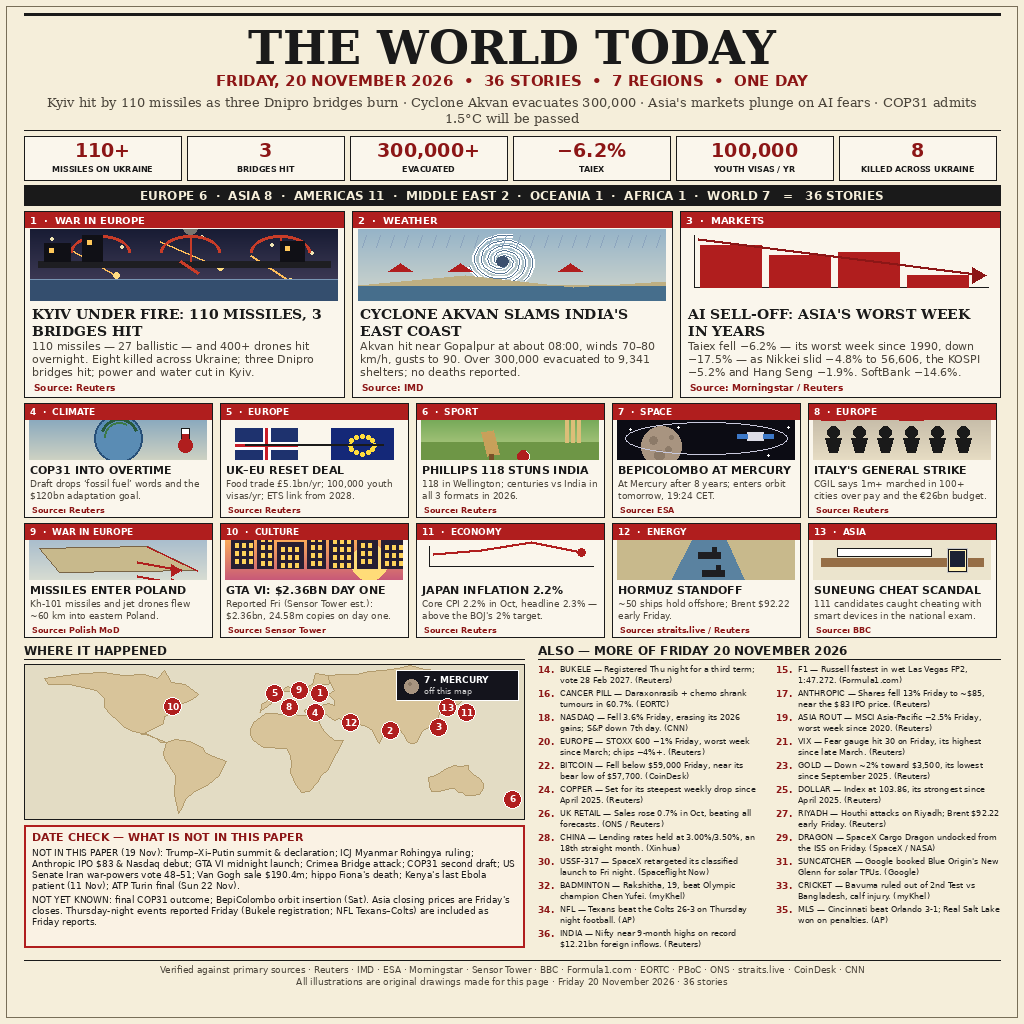
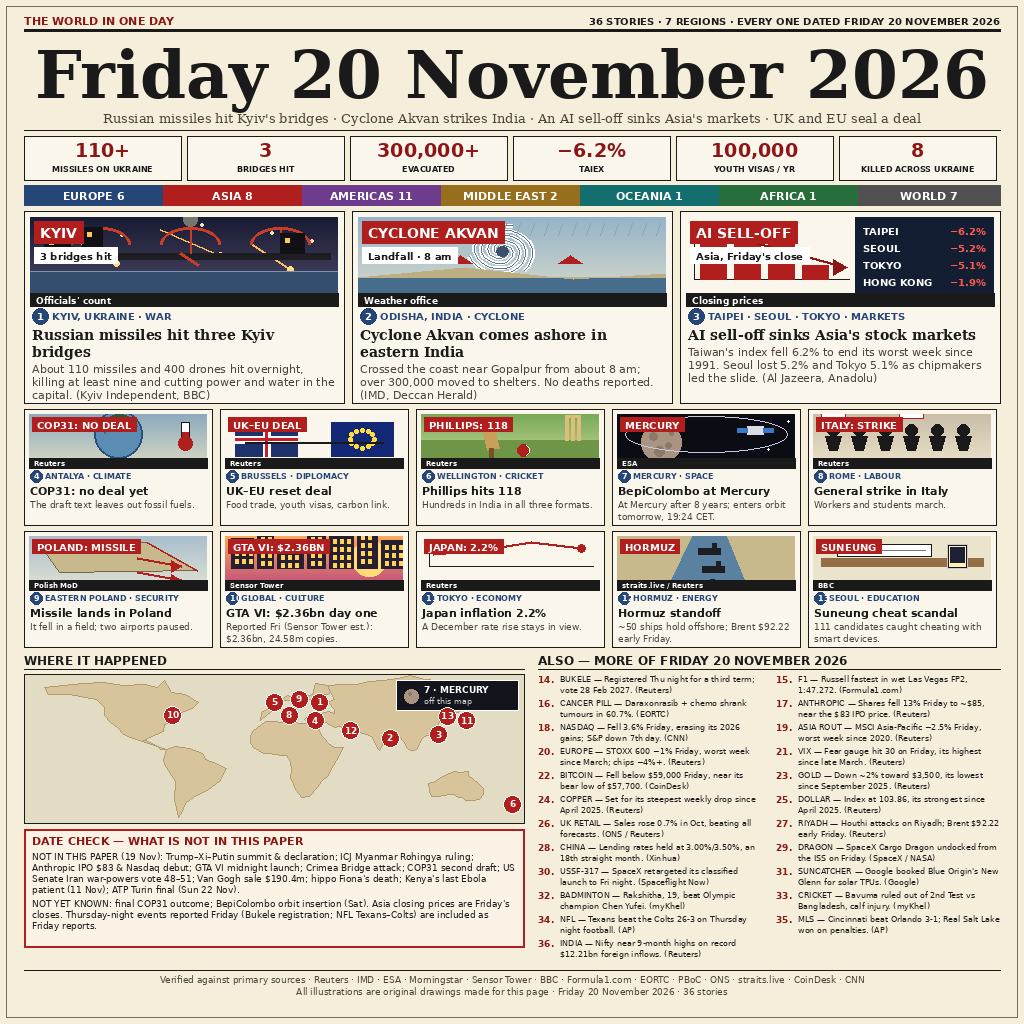
v3: top-10 design — giant date masthead, coloured region bar, overlay labels, markets data table

diff --git a/build_image.py b/build_image.py
@@ -71,26 +71,32 @@ def wrap_n(text, font, width, max_lines):
 HEROES = [
     {
         "n": 1, "cat": "WAR IN EUROPE", "art": "kyiv",
-        "head": "KYIV UNDER FIRE: 110 MISSILES, 3 BRIDGES HIT",
-        "body": ("110 missiles \u2014 27 ballistic \u2014 and 400+ drones hit "
-                 "overnight. Eight killed across Ukraine; three Dnipro "
-                 "bridges hit; power and water cut in Kyiv."),
+        "label": "KYIV", "sublabel": "3 bridges hit",
+        "attr": "Officials' count", "loc": "KYIV, UKRAINE \u00b7 WAR",
+        "head": "Russian missiles hit three Kyiv bridges",
+        "body": ("About 110 missiles and 400 drones hit overnight, killing "
+                 "at least nine and cutting power and water in the capital. "
+                 "(Kyiv Independent, BBC)"),
         "src": "Reuters",
     },
     {
         "n": 2, "cat": "WEATHER", "art": "cyclone",
-        "head": "CYCLONE AKVAN SLAMS INDIA'S EAST COAST",
-        "body": ("Akvan hit near Gopalpur at about 08:00, winds 70\u201380 "
-                 "km/h, gusts to 90. Over 300,000 evacuated to 9,341 "
-                 "shelters; no deaths reported."),
+        "label": "CYCLONE AKVAN", "sublabel": "Landfall \u00b7 8 am",
+        "attr": "Weather office", "loc": "ODISHA, INDIA \u00b7 CYCLONE",
+        "head": "Cyclone Akvan comes ashore in eastern India",
+        "body": ("Crossed the coast near Gopalpur from about 8 am; over "
+                 "300,000 moved to shelters. No deaths reported. "
+                 "(IMD, Deccan Herald)"),
         "src": "IMD",
     },
     {
         "n": 3, "cat": "MARKETS", "art": "selloff",
-        "head": "AI SELL-OFF: ASIA'S WORST WEEK IN YEARS",
-        "body": ("Taiex fell \u22126.2% \u2014 its worst week since 1990, down "
-                 "\u221217.5% \u2014 as Nikkei slid \u22124.8% to 56,606, the KOSPI "
-                 "\u22125.2% and Hang Seng \u22121.9%. SoftBank \u221214.6%."),
+        "label": "AI SELL-OFF", "sublabel": "Asia, Friday's close",
+        "attr": "Closing prices", "loc": "TAIPEI \u00b7 SEOUL \u00b7 TOKYO \u00b7 MARKETS",
+        "head": "AI sell-off sinks Asia's stock markets",
+        "body": ("Taiwan's index fell 6.2% to end its worst week since 1991. "
+                 "Seoul lost 5.2% and Tokyo 5.1% as chipmakers led the "
+                 "slide. (Al Jazeera, Anadolu)"),
         "src": "Morningstar / Reuters",
     },
 ]
@@ -98,62 +104,72 @@ HEROES = [
 SMALL = [
     {
         "n": 4, "cat": "CLIMATE", "art": "cop",
-        "title": "COP31 INTO OVERTIME",
-        "body": "Draft drops \u2018fossil fuel\u2019 words and the $120bn adaptation goal.",
+        "label": "COP31: NO DEAL", "loc": "ANTALYA \u00b7 CLIMATE",
+        "title": "COP31: no deal yet",
+        "body": "The draft text leaves out fossil fuels.",
         "src": "Reuters",
     },
     {
         "n": 5, "cat": "EUROPE", "art": "ukeu",
-        "title": "UK\u2013EU RESET DEAL",
-        "body": "Food trade \u00a35.1bn/yr; 100,000 youth visas/yr; ETS link from 2028.",
+        "label": "UK\u2013EU DEAL", "loc": "BRUSSELS \u00b7 DIPLOMACY",
+        "title": "UK\u2013EU reset deal",
+        "body": "Food trade, youth visas, carbon link.",
         "src": "Reuters",
     },
     {
         "n": 6, "cat": "SPORT", "art": "cricket",
-        "title": "PHILLIPS 118 STUNS INDIA",
-        "body": "118 in Wellington; centuries vs India in all 3 formats in 2026.",
+        "label": "PHILLIPS: 118", "loc": "WELLINGTON \u00b7 CRICKET",
+        "title": "Phillips hits 118",
+        "body": "Hundreds in India in all three formats.",
         "src": "Reuters",
     },
     {
         "n": 7, "cat": "SPACE", "art": "mercury",
-        "title": "BEPICOLOMBO AT MERCURY",
+        "label": "MERCURY", "loc": "MERCURY \u00b7 SPACE",
+        "title": "BepiColombo at Mercury",
         "body": "At Mercury after 8 years; enters orbit tomorrow, 19:24 CET.",
         "src": "ESA",
     },
     {
         "n": 8, "cat": "EUROPE", "art": "strike",
-        "title": "ITALY'S GENERAL STRIKE",
-        "body": "CGIL says 1m+ marched in 100+ cities over pay and the \u20ac26bn budget.",
+        "label": "ITALY: STRIKE", "loc": "ROME \u00b7 LABOUR",
+        "title": "General strike in Italy",
+        "body": "Workers and students march.",
         "src": "Reuters",
     },
     {
         "n": 9, "cat": "WAR IN EUROPE", "art": "poland",
-        "title": "MISSILES ENTER POLAND",
-        "body": "Kh-101 missiles and jet drones flew ~60 km into eastern Poland.",
+        "label": "POLAND: MISSILE", "loc": "EASTERN POLAND \u00b7 SECURITY",
+        "title": "Missile lands in Poland",
+        "body": "It fell in a field; two airports paused.",
         "src": "Polish MoD",
     },
     {
         "n": 10, "cat": "CULTURE", "art": "gta",
-        "title": "GTA VI: $2.36BN DAY ONE",
-        "body": "Reported Fri (Sensor Tower est.): $2.36bn, 24.58m copies on day one.",
+        "label": "GTA VI: $2.36BN", "loc": "GLOBAL \u00b7 CULTURE",
+        "title": "GTA VI: $2.36bn day one",
+        "body": "Reported Fri (Sensor Tower est.): $2.36bn, 24.58m copies.",
         "src": "Sensor Tower",
     },
     {
         "n": 11, "cat": "ECONOMY", "art": "cpi",
-        "title": "JAPAN INFLATION 2.2%",
-        "body": "Core CPI 2.2% in Oct, headline 2.3% \u2014 above the BOJ's 2% target.",
+        "label": "JAPAN: 2.2%", "loc": "TOKYO \u00b7 ECONOMY",
+        "title": "Japan inflation 2.2%",
+        "body": "A December rate rise stays in view.",
         "src": "Reuters",
     },
     {
         "n": 12, "cat": "ENERGY", "art": "hormuz",
-        "title": "HORMUZ STANDOFF",
+        "label": "HORMUZ", "loc": "HORMUZ \u00b7 ENERGY",
+        "title": "Hormuz standoff",
         "body": "~50 ships hold offshore; Brent $92.22 early Friday.",
         "src": "straits.live / Reuters",
     },
     {
         "n": 13, "cat": "ASIA", "art": "exam",
-        "title": "SUNEUNG CHEAT SCANDAL",
-        "body": "111 candidates caught cheating with smart devices in the national exam.",
+        "label": "SUNEUNG", "loc": "SEOUL \u00b7 EDUCATION",
+        "title": "Suneung cheat scandal",
+        "body": "111 candidates caught cheating with smart devices.",
         "src": "BBC",
     },
 ]
@@ -191,6 +207,14 @@ REGIONS = [
     ("EUROPE", 6), ("ASIA", 8), ("AMERICAS", 11), ("MIDDLE EAST", 2),
     ("OCEANIA", 1), ("AFRICA", 1), ("WORLD", 7),
 ]
+
+# One distinct colour per region segment in the region bar.
+REGION_COLORS = {
+    "EUROPE": (38, 70, 120), "ASIA": (176, 30, 30),
+    "AMERICAS": (110, 60, 140), "MIDDLE EAST": (150, 110, 30),
+    "OCEANIA": (20, 110, 110), "AFRICA": (40, 110, 60),
+    "WORLD": (80, 80, 80),
+}
 
 STATS = [
     ("110+", "MISSILES ON UKRAINE"),
@@ -290,21 +314,33 @@ def art_cyclone(d, x, y, w, h):
 
 
 def art_selloff(d, x, y, w, h):
+    # Left ~55%: falling bars. Right ~45%: dark data table of closes.
+    split = int(w * 0.55)
     d.rectangle([x, y, x + w, y + h], fill=(250, 246, 236))
-    d.line([(x + 8, y + h - 14), (x + w - 6, y + h - 14)], fill=INK, width=1)
+    d.line([(x + 8, y + h - 14), (x + split - 6, y + h - 14)], fill=INK, width=1)
     d.line([(x + 8, y + 6), (x + 8, y + h - 14)], fill=INK, width=1)
     # falling bars: Taiex, Nikkei, KOSPI, Hang Seng
     vals = [62, 48, 52, 19]
-    bw = (w - 30) // 4
+    bw = (split - 30) // 4
     for i, v in enumerate(vals):
         bx = x + 14 + i * bw
         bh = int(v * (h - 30) / 62)
         d.rectangle([bx, y + h - 14 - bh, bx + bw - 8, y + h - 14],
                     fill=(176, 30, 30))
-    d.line([(x + 12, y + 10), (x + w - 10, y + h - 26)], fill=(140, 22, 22),
+    d.line([(x + 12, y + 10), (x + split - 10, y + h - 26)], fill=(140, 22, 22),
            width=3)
-    d.polygon([(x + w - 22, y + h - 34), (x + w - 8, y + h - 26),
-               (x + w - 22, y + h - 18)], fill=(140, 22, 22))
+    d.polygon([(x + split - 22, y + h - 34), (x + split - 8, y + h - 26),
+               (x + split - 22, y + h - 18)], fill=(140, 22, 22))
+    # data table of Friday closes
+    d.rectangle([x + split, y, x + w, y + h], fill=(20, 30, 50))
+    rows = [("TAIPEI", "\u22126.2%"), ("SEOUL", "\u22125.2%"),
+            ("TOKYO", "\u22125.1%"), ("HONG KONG", "\u22121.9%")]
+    f_c = F(SANS_B, 10)
+    for i, (city, pct) in enumerate(rows):
+        ry = y + 8 + i * 17
+        d.text((x + split + 8, ry), city, font=f_c, fill=(255, 255, 255))
+        pw = f_c.getlength(pct)
+        d.text((x + w - 8 - pw, ry), pct, font=f_c, fill=(255, 90, 80))
 
 
 def art_cop(d, x, y, w, h):
@@ -581,21 +617,30 @@ def _banner(d, x, y, w, text, font, bg=RED, fg=(255, 255, 255)):
 
 
 def draw_masthead(d, x, y, w):
-    title = "THE WORLD TODAY"
-    f_title = F(SERIF_B, 46)
+    # Kicker line: left red, right count.
+    f_kick = F(SANS_B, 11)
+    d.text((x, y), "THE WORLD IN ONE DAY", font=f_kick, fill=RED_DARK)
+    f_count = F(SANS_B, 10)
+    count = "36 STORIES \u00b7 7 REGIONS \u00b7 EVERY ONE DATED FRIDAY 20 NOVEMBER 2026"
+    cw_ = f_count.getlength(count)
+    d.text((x + w - cw_, y + 1), count, font=f_count, fill=INK)
+    _rule(d, x, y + 16, w, 3)
+    # Giant date masthead: largest serif bold that fits the width.
+    title = "Friday 20 November 2026"
+    f_title = None
+    for size in (68, 66, 64, 62, 60, 58, 56):
+        f = F(SERIF_B, size)
+        if f.getlength(title) <= w:
+            f_title = f
+            break
     tw = f_title.getlength(title)
-    d.text((x + (w - tw) / 2, y), title, font=f_title, fill=INK)
-    sub = ("FRIDAY, 20 NOVEMBER 2026  \u2022  36 STORIES  \u2022  "
-           "7 REGIONS  \u2022  ONE DAY")
-    f_sub = F(SANS_B, 15)
-    sw = f_sub.getlength(sub)
-    d.text((x + (w - sw) / 2, y + 52), sub, font=f_sub, fill=RED_DARK)
-    lead = ("Kyiv hit by 110 missiles as three Dnipro bridges burn \u00b7 "
-            "Cyclone Akvan evacuates 300,000 \u00b7 Asia's markets plunge on "
-            "AI fears \u00b7 COP31 admits 1.5\u00b0C will be passed")
+    d.text((x + (w - tw) / 2, y + 22), title, font=f_title, fill=INK)
+    lead = ("Russian missiles hit Kyiv's bridges \u00b7 Cyclone Akvan strikes "
+            "India \u00b7 An AI sell-off sinks Asia's markets \u00b7 UK and EU "
+            "seal a deal")
     f_lead = F(SERIF, 13)
     lines = wrap(lead, f_lead, w - 40)
-    ly = y + 74
+    ly = y + 96
     for ln in lines:
         lw = f_lead.getlength(ln)
         d.text((x + (w - lw) / 2, ly), ln, font=f_lead, fill=INK_SOFT)
@@ -619,53 +664,89 @@ def draw_stats(d, x, y, w):
 
 
 def draw_regions(d, x, y, w):
-    parts = ["%s %d" % (name, n) for name, n in REGIONS]
-    text = "  \u00b7  ".join(parts) + "   =   36 STORIES"
-    f = F(SANS_B, 12)
-    tw = f.getlength(text)
-    d.rectangle([x, y, x + w, y + 20], fill=INK)
-    d.text((x + (w - tw) / 2, y + 3), text, font=f, fill=(245, 238, 218))
+    # One coloured segment per region (equal widths), white bold text.
+    seg = w // len(REGIONS)
+    f = F(SANS_B, 11)
+    for i, (name, n) in enumerate(REGIONS):
+        sx = x + i * seg
+        sw = seg if i < len(REGIONS) - 1 else w - i * seg
+        d.rectangle([sx, y, sx + sw, y + 20], fill=REGION_COLORS[name])
+        text = "%s %d" % (name, n)
+        tw = f.getlength(text)
+        d.text((sx + (sw - tw) / 2, y + 4), text, font=f,
+               fill=(255, 255, 255))
     return y + 20
 
 
 def draw_hero(img, d, x, y, w, h, hero):
     d.rectangle([x, y, x + w, y + h], outline=INK, width=1,
                 fill=(250, 246, 236))
-    _banner(d, x + 1, y + 1, w - 2,
-            "%d  \u00b7  %s" % (hero["n"], hero["cat"]), F(SANS_B, 10))
-    iy = y + 18
-    _draw_art_clipped(img, ART[hero["art"]], x + 6, iy, w - 12, 72)
+    # Art on top; bold label overlaid on the picture, not a banner above it.
+    ax, ay, aw, ah = x + 6, y + 6, w - 12, 76
+    _draw_art_clipped(img, ART[hero["art"]], ax, ay, aw, ah)
+    f_lab = F(SANS_B, 14)
+    lw = f_lab.getlength(hero["label"])
+    d.rectangle([ax + 4, ay + 4, ax + 4 + lw + 12, ay + 26], fill=RED)
+    d.text((ax + 10, ay + 8), hero["label"], font=f_lab,
+           fill=(255, 255, 255))
+    f_sub = F(SANS_B, 10)
+    sw = f_sub.getlength(hero["sublabel"])
+    d.rectangle([ax + 4, ay + 30, ax + 4 + sw + 12, ay + 46], fill=(255, 255, 255))
+    d.text((ax + 10, ay + 33), hero["sublabel"], font=f_sub, fill=INK)
+    # Attribution strip under the picture.
+    d.rectangle([ax, ay + ah, ax + aw, ay + ah + 13], fill=INK)
+    d.text((ax + 6, ay + ah + 2), hero["attr"], font=F(SANS_B, 9),
+           fill=(255, 255, 255))
+    # Numbered location + category.
+    ly = ay + ah + 15
+    d.ellipse([x + 8, ly, x + 24, ly + 16], fill=BLUE)
+    d.text((x + 8 + 8 - 3, ly + 2), str(hero["n"]), font=F(SANS_B, 10),
+           fill=(255, 255, 255))
+    d.text((x + 28, ly + 2), hero["loc"], font=F(SANS_B, 10), fill=BLUE)
+    # Headline + body (source embedded in parentheses, as the top 10 do).
     f_head = F(SERIF_B, 14)
-    lines = wrap_n(hero["head"], f_head, w - 16, 2)
-    hy = iy + 76
-    for ln in lines:
+    hy = ly + 18
+    for ln in wrap_n(hero["head"], f_head, w - 16, 2):
         d.text((x + 8, hy), ln, font=f_head, fill=INK)
         hy += 17
     f_body = F(SANS, 11)
+    by = hy + 2
     for ln in wrap_n(hero["body"], f_body, w - 16, 3):
-        d.text((x + 8, hy), ln, font=f_body, fill=INK_SOFT)
-        hy += 13
-    d.text((x + 10, y + h - 15), "Source: " + hero["src"],
-           font=F(SANS_B, 9), fill=RED_DARK)
+        d.text((x + 8, by), ln, font=f_body, fill=INK_SOFT)
+        by += 13
     return y + h
 
 
 def draw_small(img, d, x, y, w, h, panel):
     d.rectangle([x, y, x + w, y + h], outline=INK, width=1,
                 fill=(250, 246, 236))
-    _banner(d, x + 1, y + 1, w - 2,
-            "%d  \u00b7  %s" % (panel["n"], panel["cat"]), F(SANS_B, 9))
-    iy = y + 17
-    _draw_art_clipped(img, ART[panel["art"]], x + 5, iy, w - 10, 40)
-    ty = iy + 43
+    # Art on top; short punchy label overlaid on the picture.
+    ax, ay, aw, ah = x + 5, y + 5, w - 10, 44
+    _draw_art_clipped(img, ART[panel["art"]], ax, ay, aw, ah)
+    f_lab = F(SANS_B, 10)
+    lw = f_lab.getlength(panel["label"])
+    lab_w = min(lw + 10, aw - 8)
+    d.rectangle([ax + 3, ay + 3, ax + 3 + lab_w, ay + 17], fill=RED)
+    d.text((ax + 8, ay + 5), panel["label"], font=f_lab,
+           fill=(255, 255, 255))
+    # Attribution strip under the picture.
+    d.rectangle([ax, ay + ah, ax + aw, ay + ah + 10], fill=INK)
+    d.text((ax + 5, ay + ah + 1), panel["src"], font=F(SANS_B, 7),
+           fill=(255, 255, 255))
+    # Numbered location + category.
+    ly = ay + ah + 12
+    d.ellipse([x + 6, ly, x + 18, ly + 12], fill=BLUE)
+    d.text((x + 6 + 6 - 2, ly + 1), str(panel["n"]), font=F(SANS_B, 8),
+           fill=(255, 255, 255))
+    d.text((x + 21, ly + 1), panel["loc"], font=F(SANS_B, 8), fill=BLUE)
+    # Title + body.
+    ty = ly + 14
     d.text((x + 6, ty), panel["title"], font=F(SANS_B, 11), fill=INK)
     f_body = F(SANS, 9)
     by = ty + 15
     for ln in wrap_n(panel["body"], f_body, w - 12, 2):
         d.text((x + 6, by), ln, font=f_body, fill=INK_SOFT)
         by += 12
-    d.text((x + 8, y + h - 12), "Source: " + panel["src"],
-           font=F(SANS_B, 8), fill=RED_DARK)
     return y + h
 
 def draw_also(d, x, y, w, h):
@@ -743,11 +824,9 @@ def build(out_path):
     mx = 24
     cw = W - 2 * mx  # 976
 
-    # paper edge + top rules
+    # paper edge
     d.rectangle([6, 6, W - 7, H - 7], outline=(120, 110, 88), width=1)
     y = 14
-    _rule(d, mx, y, cw, 3)
-    y += 6
     y = draw_masthead(d, mx, y, cw)
     _rule(d, mx, y + 4, cw, 1)
     y += 10
@@ -758,14 +837,14 @@ def build(out_path):
 
     # heroes: 3 across
     hero_w = (cw - 2 * 8) // 3
-    hero_h = 186
+    hero_h = 192
     for i, hero in enumerate(HEROES):
         draw_hero(img, d, mx + i * (hero_w + 8), y, hero_w, hero_h, hero)
     y += hero_h + 6
 
     # small panels: 2 rows of 5
     sm_w = (cw - 4 * 8) // 5
-    sm_h = 114
+    sm_h = 116
     for row in range(2):
         for col in range(5):
             panel = SMALL[row * 5 + col]
@@ -776,12 +855,12 @@ def build(out_path):
     left_w = 500
     right_x = mx + left_w + 14
     right_w = cw - left_w - 14
-    map_h = 176
+    map_h = 170
     d.text((mx, y), "WHERE IT HAPPENED", font=F(SANS_B, 12), fill=INK)
     _rule(d, mx, y + 16, left_w, 1)
     draw_map(d, mx, y + 21, left_w, map_h - 21)
     dc_y = y + map_h + 6
-    dc_h = 122
+    dc_h = 118
     draw_date_check(d, mx, dc_y, left_w, dc_h)
     also_end = draw_also(d, right_x, y, right_w, 0)
     bottom = max(dc_y + dc_h, also_end)
